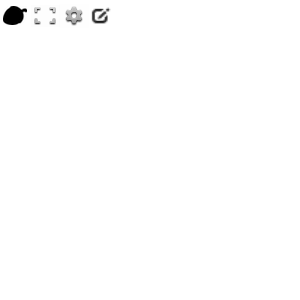
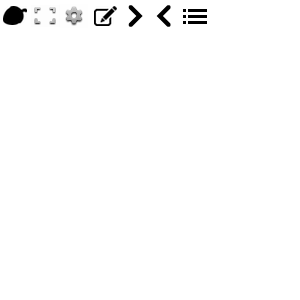
MultiShell: added Left, List, Right controls

diff --git a/frontend/static/js/src/acorn.player.js b/frontend/static/js/src/acorn.player.js
@@ -467,6 +467,46 @@
 
   });
 
+  // ** player.views.controls.LeftControl ** onClick : acorn website
+  // ---------------------------------------------------------------------
+
+  player.views.controls.LeftControl = player.views.Control.extend({
+
+    id: 'left',
+    className: 'control left',
+
+    onClick: function() {
+      this.controls.player.trigger('controls:right');
+    },
+
+  });
+
+  // ** player.views.controls.RightControl ** onClick : acorn website
+  // ---------------------------------------------------------------------
+
+  player.views.controls.RightControl = player.views.Control.extend({
+    id: 'right',
+    className: 'control left',
+
+    onClick: function() {
+      this.controls.player.trigger('controls:left');
+    },
+
+  });
+
+  // ** player.views.controls.ListControl ** onClick : acorn website
+  // ---------------------------------------------------------------------
+
+  player.views.controls.ListControl = player.views.Control.extend({
+
+    id: 'list',
+    className: 'control left',
+
+    onClick: function() {
+      this.controls.player.trigger('controls:list');
+    },
+
+  });
 
   // ** player.views.EditView ** a view to house all editing controls
   // ----------------------------------------------------------------

diff --git a/frontend/player.html b/frontend/player.html
@@ -182,7 +182,19 @@ h1, h2, h3, h4, h5, h6 {
 }
 
 #acorn-player > #controls > #edit.control {
-  background: no-repeat url("/static/img/controls/acorn.png") -86px -2px;
+  background: no-repeat url("/static/img/controls/acorn.png") -90px -2px;
+}
+
+#acorn-player > #controls > #left.control {
+  background: no-repeat url("/static/img/controls/acorn.png") -120px -2px;
+}
+
+#acorn-player > #controls > #right.control {
+  background: no-repeat url("/static/img/controls/acorn.png") -150px -2px;
+}
+
+#acorn-player > #controls > #list.control {
+  background: no-repeat url("/static/img/controls/acorn.png") -180px -2px;
 }
 
 #acorn-player > #edit {

diff --git a/frontend/static/js/src/acorn.shells.js b/frontend/static/js/src/acorn.shells.js
@@ -1122,6 +1122,13 @@
     // The cannonical type of this media. One of `acorn.types`.
     type: 'multimedia',
 
+    // The shell-specific control components to use.
+    controls: [
+      'RightControl',
+      'ListControl',
+      'LeftControl',
+    ],
+
     initialize: function() {
       Shell.prototype.initialize.call(this);
 
